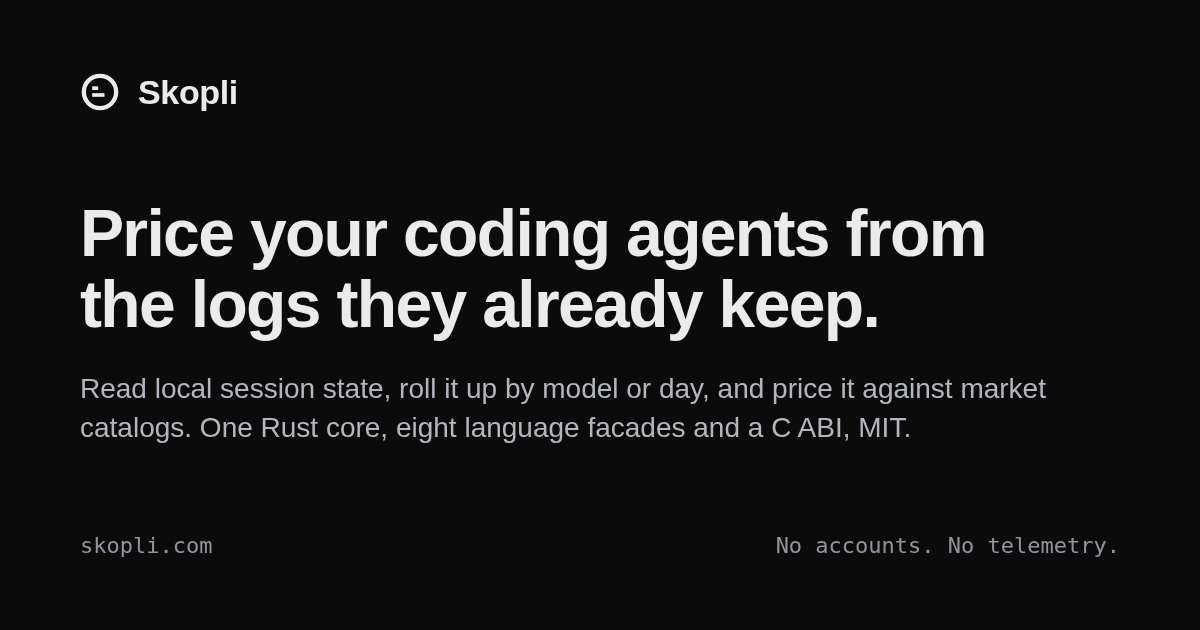
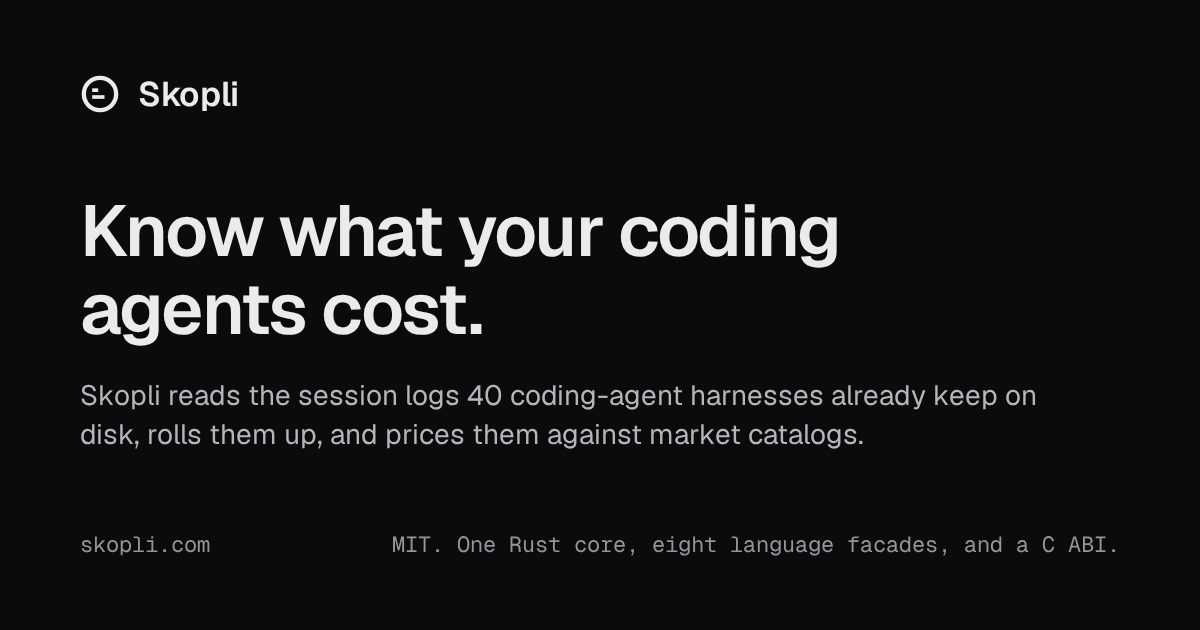
fix(site): address review round 4 polish findings

diff --git a/web/site/src/copy.ts b/web/site/src/copy.ts
@@ -12,7 +12,7 @@ export const en = {
     lede: `Skopli reads the session logs ${n} coding-agent harnesses already keep on disk, rolls them up, and prices them against market catalogs.`,
     getStarted: "Read the docs",
     github: "GitHub",
-    facts: "MIT. One Rust core, eight language facades, and a C ABI. No accounts, no telemetry.",
+    facts: "MIT. One Rust core, eight language facades, and a C ABI.",
   },
   ledger: {
     caption:
@@ -31,7 +31,7 @@ export const en = {
   },
   install: {
     title: "Install in your language",
-    body: "Eight language facades and a C ABI call one Rust core. No package is published yet; they ship with the first release. Until then each SDK builds from the repository. The TypeScript package needs Node 24 or newer and ships ESM only. Java, C#, Go, and Swift link the C library and C includes its header; build it with `cargo build -p skopli-capi --release`.",
+    body: "No package is published yet; all of them ship with the first release. Until then each SDK builds from the repository. The TypeScript package needs Node 24 or newer and ships ESM only. Java, C#, Go, and Swift link the C library, and C includes its header; the C tab shows the build command.",
     frameTitle: "after the first release",
   },
   layers: {
@@ -54,11 +54,11 @@ export const en = {
   },
   quickstart: {
     title: "Four calls from local files to a priced total",
-    body: "The seven handle-based facades reach the total in four calls. Rust and C expose the primitives, so their tabs show one step each. Pick a language once and both code blocks on this page follow.",
+    body: "The seven handle-based facades reach the total in four calls. Rust and C expose the primitives, so their tabs call rollup and pricing directly. Pick a language once and both code blocks on this page follow.",
   },
   harnesses: {
     title: `Read usage from ${n} harnesses`,
-    body: "Skopli parses the session state each harness keeps on disk, with no plugin, proxy, or exporter in the way. Each id is stable, and names follow the upstream project.",
+    body: "Skopli parses the session state each harness keeps on disk, with no plugin, proxy, or exporter in the way. Each ID is stable, and names follow the upstream project.",
     more: "Full table with footnotes",
   },
   refuses: {

diff --git a/web/site/e2e/site.spec.ts b/web/site/e2e/site.spec.ts
@@ -102,11 +102,16 @@ test("section nav lives in the header on wide viewports and in a row below it el
   await nav.getByRole("link", { name: "Harnesses" }).click();
   await expect(page).toHaveURL(/#harnesses$/);
   await expect(page.locator("#harnesses")).toBeInViewport();
-  if (!isDesktop(page))
-    await expect(nav.getByRole("link", { name: "Harnesses" })).toHaveAttribute(
-      "aria-current",
-      "true",
-    );
+  if (isDesktop(page)) return;
+  await expect(nav.getByRole("link", { name: "Harnesses" })).toHaveAttribute(
+    "aria-current",
+    "true",
+  );
+  await expect(nav).toBeInViewport();
+  await page.evaluate(() => document.getElementById("layers")!.scrollIntoView());
+  await expect(nav.getByRole("link", { name: "Layers" })).toHaveAttribute("aria-current", "true");
+  await expect(nav.getByRole("link", { name: "Harnesses" })).not.toHaveAttribute("aria-current");
+  await expect(nav).toBeInViewport();
 });
 
 test("clipped code frames show the overflow fade until scrolled to the end", async ({ page }) => {
@@ -128,7 +133,15 @@ test("the ledger recomputes from the example rows and stays inside its frame", a
   expect(usd(totals.usd)).toBe("$211.39");
   await expect(ledger.locator("tbody tr")).toHaveCount(rows.length);
   await expect(ledger.locator(".ledger__miss")).toHaveText("priced: false");
-  await expect(ledger.locator("thead th", { hasText: "Output" })).toBeVisible();
+  await expect(ledger.locator("thead th", { hasText: "Model" })).toBeVisible();
+  await expect(ledger.locator("thead th", { hasText: "USD" })).toBeVisible();
+  if (isMobile(page)) {
+    await expect(ledger.locator("thead th", { hasText: "Output" })).toBeHidden();
+    for (const code of await ledger.locator(".ledger__model").all()) {
+      const lines = await code.evaluate((el) => el.getClientRects().length);
+      expect(lines).toBe(1);
+    }
+  } else await expect(ledger.locator("thead th", { hasText: "Output" })).toBeVisible();
   const report = await page.evaluate(() => {
     const frame = document.querySelector(".ledger .table-frame")!;
     const scroll = frame.querySelector(".table-scroll")!;

diff --git a/web/site/src/data/samples.ts b/web/site/src/data/samples.ts
@@ -164,20 +164,31 @@ let priced = try pricing.priceRollups(rollups: byModel)
 let total = priced.reduce(0) { $0 + ($1.pricing.usd ?? 0) }`,
   },
   {
-    label: "C/C++",
+    label: "C",
     lang: "c",
-    file: "rollup.c",
+    file: "total.c",
     install: `cargo build -p skopli-capi --release
 cc app.c -I crates/skopli-capi/include -L target/release -lskopli`,
     installLang: "sh",
     code: `#include <string.h>
 #include "skopli.h"
 
-// The C ABI exchanges JSON buffers. events_json is a UsageEvent[]; the caller
-// frees *out with ag_buf_free.
-AgStatus rollup_by_model(const char *events_json, uintptr_t events_len, AgBuf *out) {
-    const char *opts = "{\\"by\\":\\"model\\"}";
-    return ag_rollup(events_json, events_len, opts, strlen(opts), out);
+// The C ABI exchanges JSON buffers. events_json is a UsageEvent[]; *out is a
+// PricedRollup[] the caller frees with ag_buf_free.
+AgStatus price_by_model(const char *events_json, uintptr_t events_len, AgBuf *out) {
+    const char *by_model = "{\\"by\\":\\"model\\"}";
+    AgBuf rollups = {0};
+    AgStatus st = ag_rollup(events_json, events_len, by_model, strlen(by_model), &rollups);
+    if (st != AG_STATUS_OK) return st;
+
+    const char *opts = "{\\"mode\\":\\"calculate\\",\\"builtinSources\\":false}";
+    AgPricing *pricing = NULL;
+    st = ag_pricing_new(opts, strlen(opts), &pricing);
+    if (st == AG_STATUS_OK)
+        st = ag_pricing_price_rollups(pricing, (const char *)rollups.ptr, rollups.len, out);
+    ag_pricing_free(pricing);
+    ag_buf_free(rollups);
+    return st;
 }`,
   },
 ];
